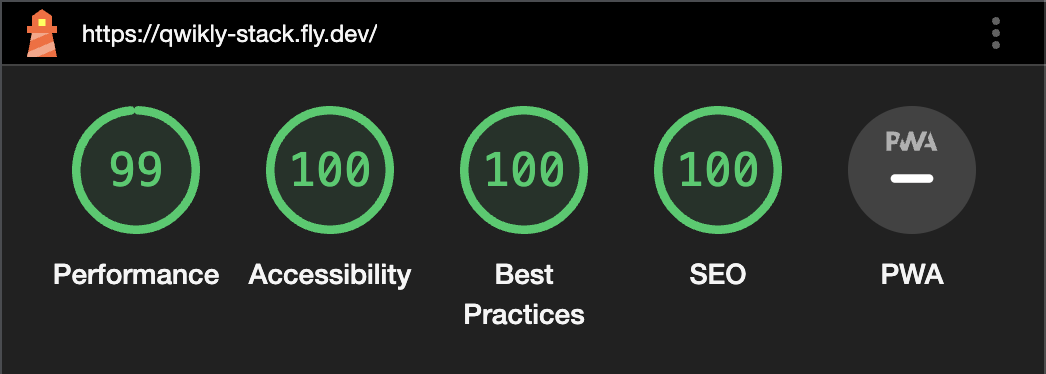
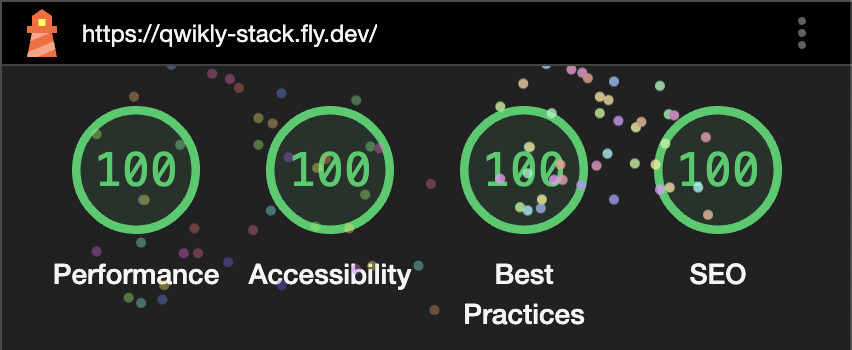
feat(threejs): add threejs scene

diff --git a/src/components/layout/threejs-scene.tsx b/src/components/layout/threejs-scene.tsx
@@ -1,0 +1,143 @@
+import type { NoSerialize } from "@builder.io/qwik";
+import {
+  component$,
+  noSerialize,
+  useSignal,
+  useStore,
+  useVisibleTask$,
+} from "@builder.io/qwik";
+import * as THREE from "three";
+import * as BufferGeometryUtils from "three/examples/jsm/utils/BufferGeometryUtils.js";
+
+interface State {
+  scene: NoSerialize<THREE.Scene>;
+  camera: NoSerialize<THREE.PerspectiveCamera>;
+  renderer: NoSerialize<THREE.WebGLRenderer>;
+}
+
+export const ThreeJsScene = component$(() => {
+  const canvas = useSignal<HTMLCanvasElement>();
+  const state = useStore<State>({
+    scene: noSerialize(undefined),
+    camera: noSerialize(undefined),
+    renderer: noSerialize(undefined),
+  });
+
+  useVisibleTask$(() => {
+    const scene = new THREE.Scene();
+    const camera = new THREE.PerspectiveCamera(
+      95,
+      window.innerWidth / window.innerHeight,
+      1,
+      13
+    );
+    const renderer = new THREE.WebGLRenderer({
+      canvas: canvas.value,
+    });
+    state.scene = noSerialize(scene);
+    state.camera = noSerialize(camera);
+    state.renderer = noSerialize(renderer);
+    renderer.setPixelRatio(window.devicePixelRatio);
+    renderer.setSize(window.innerWidth, window.innerHeight);
+    renderer.setClearColor(0x000000, 0.0);
+
+    const SPHERE_RADIUS = 20;
+    const LATITUDE_COUNT = 40;
+    const LONGITUDE_COUNT = 80;
+    const DOT_SIZE = 0.05;
+    const DOT_COLOR = 0xffffff;
+
+    // Define an array to hold the geometries of all the dots.
+    const dotGeometries = [];
+
+    // Create a blank vector to be used by the dots.
+    const vector = new THREE.Vector3();
+
+    // Loop across the latitudes.
+    for (let lat = 0; lat < LATITUDE_COUNT; lat += 1) {
+      // Loop across the longitudes.
+      for (let lng = 0; lng < LONGITUDE_COUNT; lng += 1) {
+        // Create a geomtry for the dot.
+        const dotGeometry = new THREE.CircleGeometry(DOT_SIZE, 5);
+        // Defin the phi and theta angles for the dot.
+        const phi = (Math.PI / LATITUDE_COUNT) * lat;
+        const theta = ((2 * Math.PI) / LONGITUDE_COUNT) * lng;
+        // Set the vector using the spherical coordinates generated from the sphere radius, phi and theta.
+        vector.setFromSphericalCoords(SPHERE_RADIUS, phi, theta);
+        // Make sure the dot is facing in the right direction.
+        dotGeometry.lookAt(vector);
+        // Move the dot geometry into position.
+        dotGeometry.translate(vector.x, vector.y, vector.z);
+        // Push the positioned geometry into the array.
+        dotGeometries.push(dotGeometry);
+      }
+    }
+
+    // Merge all the dot geometries together into one buffer geometry.
+    const mergedDotGeometries =
+      BufferGeometryUtils.mergeBufferGeometries(dotGeometries);
+
+    // Define the material for the dots.
+    const dotMaterial = new THREE.MeshBasicMaterial({
+      color: DOT_COLOR,
+      side: THREE.DoubleSide,
+      opacity: 0.5,
+    });
+
+    // Create the dot mesh from the dot geometries and material.
+    const dotMesh = new THREE.Mesh(mergedDotGeometries, dotMaterial);
+
+    // Add the dot mesh to the scene.
+    scene.add(dotMesh);
+    camera.position.set(0, 0, 0);
+    renderer.render(scene, camera);
+
+    // Helpers
+    // const pointLight = new THREE.PointLight(0xffffff);
+    // pointLight.position.set(5, 5, 5);
+    // const lightHelper = new THREE.PointLightHelper(pointLight);
+    // scene.add(lightHelper);
+    // const gridHelper = new THREE.GridHelper(200, 50);
+    // scene.add(gridHelper);
+
+    // Scroll Animation
+    const moveCamera = () => {
+      const t = document.body.getBoundingClientRect().top;
+      camera.position.z = t * -0.01;
+    };
+    document.body.onscroll = moveCamera;
+    moveCamera();
+
+    // Animate the scene using the browser's native requestAnimationFrame method.
+    const animate = (time: any) => {
+      // Reduce the current timestamp to something manageable.
+      time *= 0.001;
+      // Update the dot mesh rotation.
+      dotMesh.rotation.y = time * 0.1;
+      // Update the orbit controls now that things have changed.
+      // controls.update();
+      // Re-render the scene and trigger another animation frame.
+      renderer.render(scene, camera);
+      requestAnimationFrame(animate);
+    };
+    // Trigger the first animation frame.
+    requestAnimationFrame(animate);
+
+    // Establish the canvas size and call the function to render the scene.
+    function onWindowResize() {
+      camera.aspect = window.innerWidth / window.innerHeight;
+      camera.updateProjectionMatrix();
+      renderer.setSize(window.innerWidth, window.innerHeight - 115);
+    }
+    window.addEventListener("resize", onWindowResize);
+    onWindowResize();
+  });
+
+  return (
+    <canvas
+      class="absolute left-0 top-0 z-0 opacity-20 duration-300 animate-in fade-in zoom-in"
+      ref={canvas}
+      id="canvas"
+    ></canvas>
+  );
+});

diff --git a/src/routes/index.tsx b/src/routes/index.tsx
@@ -6,6 +6,7 @@ import LucideStar from "~/components/icons/lucide-star";
 import LucideStarHalf from "~/components/icons/lucide-star-half";
 import TikTokIcon from "~/components/icons/tiktok-icon";
 import YoutubeIcon from "~/components/icons/youtube-icon";
+import { ThreeJsScene } from "~/components/layout/threejs-scene";
 import { AnchorButton } from "~/components/ui/buttons";
 import { Card } from "~/components/ui/card";
 import { Gradient, H0, H1, H2, H3, H5 } from "~/components/ui/typography";
@@ -176,7 +177,7 @@ export default component$(() => {
     },
     {
       title: "Fully customizable",
-      body: <>Feel free to add/remove whatever technology you want.</>,
+      body: <>Feel free to add/remove whatever technology you want</>,
     },
   ];
 
@@ -249,7 +250,8 @@ export default component$(() => {
 
   return (
     <section class="container  py-12">
-      <div class="mx-auto max-w-[85rem] space-y-10 py-12">
+      <ThreeJsScene />
+      <div class="relative z-10 mx-auto max-w-[85rem] space-y-10 py-12">
         <ImgQwikLogo class="mx-auto h-24" />
         <div class="mx-auto max-w-3xl text-center">
           <H0>

diff --git a/src/components/layout/nav-bar.tsx b/src/components/layout/nav-bar.tsx
@@ -12,7 +12,7 @@ export const NavBar = component$(() => {
   const showMobileNavBar = useSignal(false);
 
   return (
-    <header class="flex w-full flex-col border-b border-white/[.1] bg-slate-950 sm:justify-start md:flex-row">
+    <header class="z-10 flex w-full flex-col border-b border-white/[.1] bg-slate-950 sm:justify-start md:flex-row">
       <nav class="container relative mx-auto  w-full px-4 sm:flex sm:items-center sm:justify-between">
         <div class="flex items-center justify-between">
           <a

diff --git a/src/components/layout/toaster.tsx b/src/components/layout/toaster.tsx
@@ -12,7 +12,7 @@ export const Toaster = component$(() => {
 
   return (toasts.value.success || toasts.value.error || toasts.value.info) &&
     shown.value ? (
-    <div class="absolute left-0 top-8 w-full">
+    <div class="absolute left-0 top-8 z-20 w-full">
       <div class="mx-auto w-full rounded-md border border-slate-500 bg-slate-100 shadow-lg md:w-2/3 xl:w-1/2">
         <div class="flex items-center justify-between p-4">
           <span class="flex items-center text-slate-950">

diff --git a/tailwind.config.js b/tailwind.config.js
@@ -7,6 +7,7 @@ module.exports = {
       padding: "1rem",
     },
     extend: {},
+    keyframes: {}
   },
-  plugins: [],
+  plugins: [require("tailwindcss-animate")],
 };
